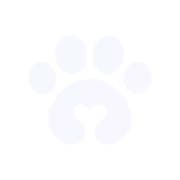
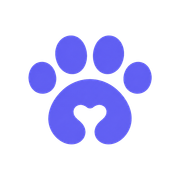
ui(branding): 보라색 파비콘 세트 + 무한 크레딧 SQL runbook
- public/logo.png → sharp 리사이즈로 favicon 풀세트 생성
  - favicon.ico (16+32 multi-res)
  - favicon-16x16.png / favicon-32x32.png
  - apple-touch-icon.png (180)
  - android-chrome-192x192.png / 512x512.png
- index.html: PNG favicon link 추가 (기존 .ico와 병행 — 모던 브라우저 PNG 우선)
- scripts/generate-favicons.mjs: 재생성용 헬퍼
- docs/runbooks/unlimited-credits-reddragon012.sql: BEFORE/INSERT/AFTER + 롤백 포함 일회성 SQL

Changed region(s): [[0.1389, 0.1944, 0.8611, 0.8056]]

diff --git a/index.html b/index.html
@@ -25,6 +25,8 @@
   <meta name="twitter:description" content="수험생의 불안을 걷어내고, 무한한 잠재력을 깨우는 AI 기반 멘탈 &amp; 학습 코칭 플랫폼
 마이치는 지친 수험생의 마음을 따뜻하게 보듬고, 학습의 새로운 돌파구를 제시하는 든든한 파트너입니다.">
   <link rel="icon" href="/favicon.ico" sizes="any">
+  <link rel="icon" type="image/png" sizes="32x32" href="/favicon-32x32.png">
+  <link rel="icon" type="image/png" sizes="16x16" href="/favicon-16x16.png">
   <link rel="apple-touch-icon" href="/apple-touch-icon.png">
 </head>
 
